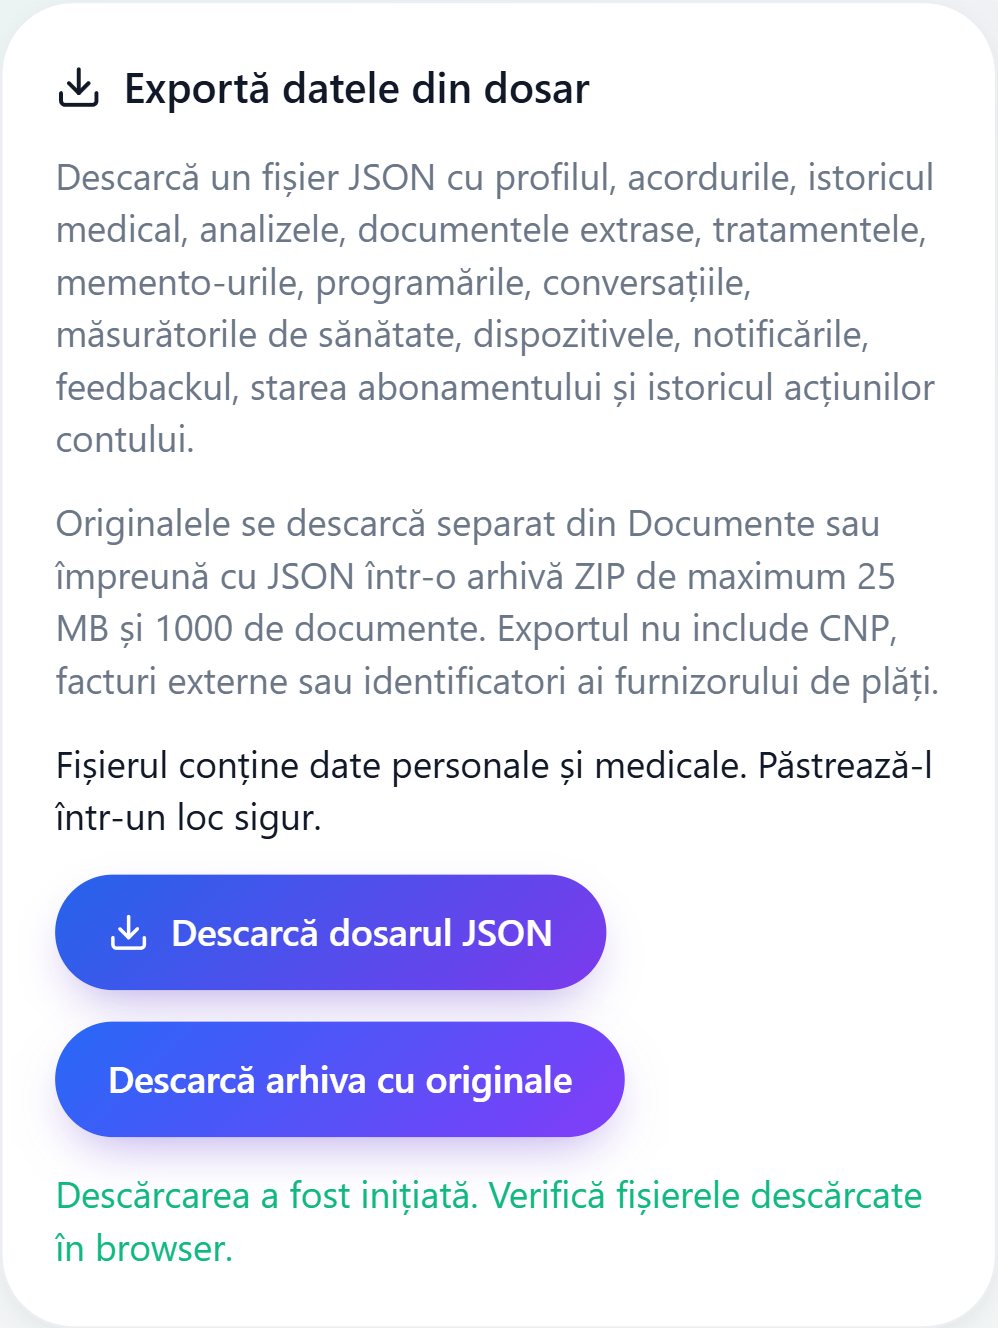
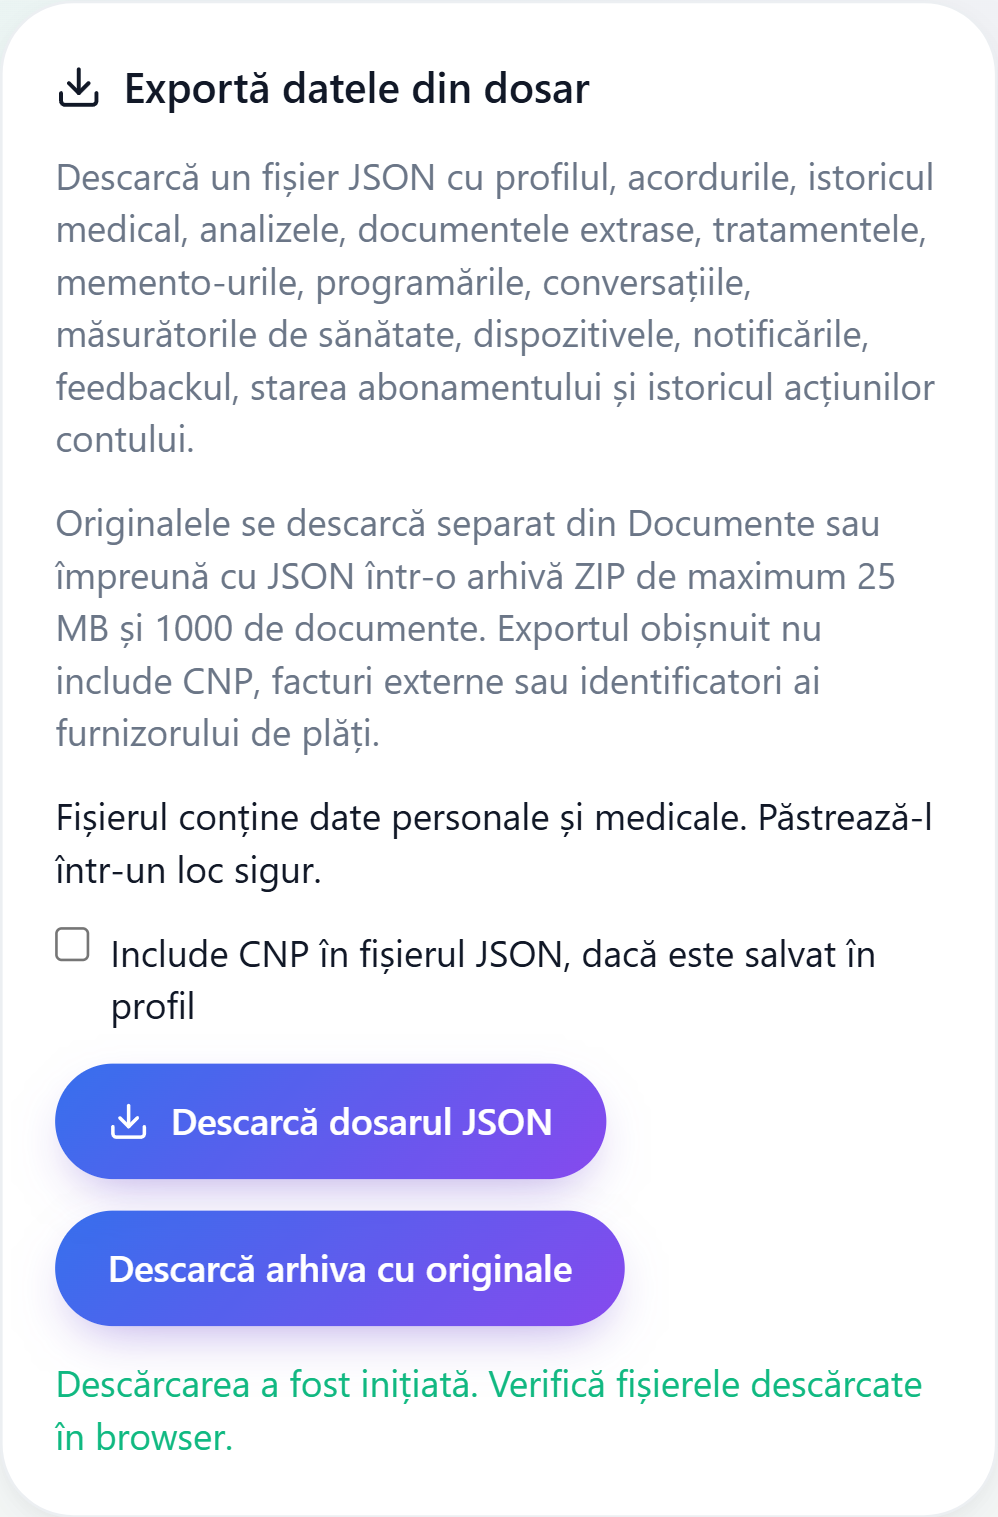
feat: opt in to identifier export with password and MFA reauthentication

Changed region(s): [[0.0311, 0.0309, 0.9319, 0.9571]]

diff --git a/frontend/src/components/data-export.tsx b/frontend/src/components/data-export.tsx
@@ -4,10 +4,15 @@ import { useEffect, useState } from "react";
 import { Capacitor } from "@capacitor/core";
 import { Download } from "lucide-react";
 import { saveExport } from "@/lib/file-export";
-import { downloadFile } from "@/lib/api";
-import { Button, Card } from "@/components/ui";
+import { useAuth } from "@/lib/auth";
+import { api, downloadFile } from "@/lib/api";
+import { Button, Card, Input } from "@/components/ui";
 
 export function DataExport() {
+  const { user } = useAuth();
+  const [includeCnp, setIncludeCnp] = useState(false);
+  const [password, setPassword] = useState("");
+  const [mfaCode, setMfaCode] = useState("");
   const [busy, setBusy] = useState(false);
   const [native, setNative] = useState(false);
   const [message, setMessage] = useState("");
@@ -18,7 +23,12 @@ export function DataExport() {
     if (busy) return;
     setBusy(true); setMessage(""); setError("");
     try {
-      const blob = await downloadFile(archive ? "/gdpr/export/archive" : "/gdpr/export");
+      const blob = includeCnp && !archive
+        ? new Blob([JSON.stringify(await api.post("/gdpr/export/with-identifier", {
+            password, mfa_code: mfaCode || null, include_cnp: true,
+          }), null, 2)], {type: "application/json"})
+        : await downloadFile(archive ? "/gdpr/export/archive" : "/gdpr/export");
+      setPassword(""); setMfaCode("");
       setMessage(await saveExport(blob, `dosar-medical-${new Date().toISOString().slice(0, 10)}.${archive ? "zip" : "json"}`));
     } catch (e) {
       setError(e instanceof Error ? e.message : "Exportul nu a putut fi descărcat. Reîncearcă.");
@@ -31,15 +41,22 @@ export function DataExport() {
     </h2>
     <p className="text-sm text-muted">Descarcă un fișier JSON cu profilul, acordurile, istoricul medical,
       analizele, documentele extrase, tratamentele, memento-urile, programările, conversațiile, măsurătorile de sănătate, dispozitivele, notificările, feedbackul, starea abonamentului și istoricul acțiunilor contului.</p>
-    <p className="text-sm text-muted">Originalele se descarcă separat din Documente sau împreună cu JSON într-o arhivă ZIP de maximum 25 MB și 1000 de documente. Exportul nu include
+    <p className="text-sm text-muted">Originalele se descarcă separat din Documente sau împreună cu JSON într-o arhivă ZIP de maximum 25 MB și 1000 de documente. Exportul obișnuit nu include
       CNP, facturi externe sau identificatori ai furnizorului de plăți.</p>
     <p className="text-sm">Fișierul conține date personale și medicale. Păstrează-l într-un loc sigur.</p>
     {native && <p className="text-sm text-muted">Alege destinația în dialogul sistemului. Copia temporară
       rămâne în memoria cache privată; copiile mai vechi de 24 de ore se curăță la următorul export.</p>}
-    <Button onClick={() => download()} disabled={busy}>
+    <label className="flex items-start gap-2 text-sm"><input type="checkbox" disabled={busy} checked={includeCnp}
+      onChange={e => {setIncludeCnp(e.target.checked); setPassword(""); setMfaCode("");}} />Include CNP în fișierul JSON, dacă este salvat în profil</label>
+    {includeCnp && <div className="space-y-3">
+      <p className="text-sm text-muted">Confirmă identitatea pentru acest export. Arhiva ZIP rămâne fără CNP.</p>
+      <label className="block text-sm">Parola pentru export<Input type="password" autoComplete="current-password" value={password} onChange={e => setPassword(e.target.value)} disabled={busy} /></label>
+      {user?.mfa_enabled && <label className="block text-sm">Cod MFA pentru export<Input autoComplete="one-time-code" maxLength={64} value={mfaCode} onChange={e => setMfaCode(e.target.value)} disabled={busy} /></label>}
+    </div>}
+    <Button onClick={() => download()} disabled={busy || (includeCnp && (!password || (!!user?.mfa_enabled && !mfaCode)))}>
       <Download size={16} aria-hidden="true" /> {busy ? "Se pregătește exportul…" : native ? "Salvează sau partajează JSON" : "Descarcă dosarul JSON"}
     </Button>
-    <Button onClick={() => download(true)} disabled={busy}>Descarcă arhiva cu originale</Button>
+    <Button onClick={() => download(true)} disabled={busy || includeCnp}>Descarcă arhiva cu originale</Button>
     {message && <p role="status" className="text-sm text-brand-green">{message}</p>}
     {error && <p role="alert" className="text-sm text-red-600">{error}</p>}
   </Card>;

diff --git a/frontend/tests/data-export-flow.spec.ts b/frontend/tests/data-export-flow.spec.ts
@@ -38,6 +38,20 @@ test("download owned JSON export and retry after service error", async ({ page }
   expect(archiveBytes.subarray(0, 2).toString()).toBe("PK");
   expect(archiveBytes.includes(Buffer.from("dosar.json"))).toBe(true);
   expect(archiveBytes.includes(Buffer.from(email))).toBe(true);
+  await section.getByRole("checkbox").check();
+  await expect(section.getByRole("button", {name: "Descarcă arhiva cu originale"})).toBeDisabled();
+  await section.getByLabel("Parola pentru export").fill("wrong-password");
+  await button.click();
+  await expect(section.getByRole("alert")).toContainText("Parolă sau cod MFA incorect");
+  await section.getByLabel("Parola pentru export").fill("Testing-pass-123!");
+  const sensitiveDownload = page.waitForEvent("download");
+  await button.click();
+  const sensitiveFile = await sensitiveDownload;
+  const sensitive = JSON.parse(await readFile((await sensitiveFile.path())!, "utf8"));
+  expect(sensitive.export_metadata.cnp_requested).toBe(true);
+  expect(sensitive.export_metadata.not_included).not.toContain("cnp");
+  await expect(section.getByLabel("Parola pentru export")).toHaveValue("");
+  await section.getByRole("checkbox").uncheck();
   await section.scrollIntoViewIfNeeded();
   expect(await page.evaluate(() => document.documentElement.scrollWidth <= innerWidth)).toBe(true);
   await section.screenshot({ path: `../docs/screenshots/data-export-${info.project.name}.png` });

diff --git a/backend/app/api/routes/gdpr.py b/backend/app/api/routes/gdpr.py
@@ -1,6 +1,7 @@
 """GDPR endpoints: data export, account deletion, consent management."""
 from __future__ import annotations
 
+import pyotp
 from fastapi import APIRouter, Depends, HTTPException, Request, Response, status
 from fastapi.responses import JSONResponse
 from sqlalchemy import select
@@ -10,11 +11,12 @@ from app.api.deps import ai_consent_version, get_current_user
 from app.core.browser_session import clear_browser_cookies
 from app.core.database import get_db
 from app.core.rate_limit import RateLimiter
-from app.core.security import verify_password
+from app.core.security import decrypt_field, verify_password
 from app.models.enums import ConsentType
+from app.models.patient import Patient
 from app.models.user import Consent, User
-from app.schemas.gdpr import ConsentIn, ConsentOut, DeleteAccountRequest
-from app.services import audit, gdpr, record_archive, storage_cleanup
+from app.schemas.gdpr import ConsentIn, ConsentOut, DeleteAccountRequest, SensitiveExportRequest
+from app.services import audit, gdpr, mfa_recovery, record_archive, storage_cleanup
 from app.services.ai import get_ai_provider
 from app.services.ai.base import AIProvider
 from app.services.storage import Storage, get_storage
@@ -38,6 +40,44 @@ def export_my_data(
     response.headers["Pragma"] = "no-cache"
     audit.record(db, user_id=user.id, action="gdpr_export", ip_address=_client_ip(request))
     return gdpr.export_user_data(db, user)
+
+
+@router.post("/export/with-identifier", dependencies=[Depends(RateLimiter(5, 60))])
+def export_with_identifier(
+    payload: SensitiveExportRequest, user: User = Depends(get_current_user),
+    db: Session = Depends(get_db),
+) -> dict:
+    if not payload.include_cnp:
+        raise HTTPException(400, "Confirmă includerea CNP în export.")
+    version = user.token_version
+    account = db.scalar(select(User).where(User.id == user.id).with_for_update()
+                        .execution_options(populate_existing=True))
+    if account is None or not account.is_active or account.token_version != version:
+        raise HTTPException(401, "Sesiune expirată.")
+    if not account.hashed_password or not verify_password(
+        payload.password, account.hashed_password
+    ):
+        raise HTTPException(400, "Parolă sau cod MFA incorect.")
+    if account.mfa_enabled:
+        secret = decrypt_field(account.mfa_secret)
+        if not payload.mfa_code or not secret:
+            raise HTTPException(400, "Parolă sau cod MFA incorect.")
+        if not pyotp.TOTP(secret).verify(payload.mfa_code, valid_window=1):
+            if not mfa_recovery.consume(db, account.id, payload.mfa_code):
+                db.rollback()
+                raise HTTPException(400, "Parolă sau cod MFA incorect.")
+    patient = db.scalar(select(Patient).where(Patient.user_id == account.id))
+    identifier = decrypt_field(patient.cnp_encrypted) if patient else None
+    if patient and patient.cnp_encrypted and identifier is None:
+        db.rollback()
+        raise HTTPException(503, "Identificatorul nu a putut fi exportat. Reîncearcă.")
+    data = gdpr.export_user_data(db, account)
+    data["export_metadata"]["not_included"].remove("cnp")
+    data["export_metadata"]["cnp_requested"] = True
+    if data["patient"] is not None:
+        data["patient"]["cnp"] = identifier
+    audit.record(db, user_id=account.id, action="gdpr_export_with_identifier")
+    return data
 
 
 @router.get("/export/archive", dependencies=[Depends(RateLimiter(2, 60))])

diff --git a/backend/tests/test_sensitive_export.py b/backend/tests/test_sensitive_export.py
@@ -1,0 +1,45 @@
+import pyotp
+from sqlalchemy import select
+
+from app.models.user import AuditLog
+from tests.test_gdpr import API, _auth
+
+
+def test_identifier_export_is_opt_in_reauthenticated_and_owner_scoped(client, db_session):
+    owner = _auth(client, "identifier-owner@example.com")
+    other = _auth(client, "identifier-other@example.com")
+    client.put(f"{API}/patients/me", headers=owner, json={"cnp": "0000000000000"})
+    client.put(f"{API}/patients/me", headers=other, json={"cnp": "1111111111111"})
+    assert "0000000000000" not in client.get(f"{API}/gdpr/export", headers=owner).text
+    for payload in [{"password": "Parola1234"}, {"password": "wrong", "include_cnp": True}]:
+        assert client.post(f"{API}/gdpr/export/with-identifier", headers=owner,
+                           json=payload).status_code == 400
+    response = client.post(f"{API}/gdpr/export/with-identifier", headers=owner,
+                           json={"password": "Parola1234", "include_cnp": True})
+    assert response.status_code == 200
+    assert response.json()["patient"]["cnp"] == "0000000000000"
+    assert "1111111111111" not in response.text
+    assert "cnp" not in response.json()["export_metadata"]["not_included"]
+    assert response.headers["cache-control"] == "no-store"
+    logs = list(db_session.scalars(select(AuditLog).where(
+        AuditLog.action == "gdpr_export_with_identifier")))
+    assert len(logs) == 1 and logs[0].detail is None
+
+
+def test_identifier_export_enforces_mfa_and_consumes_backup_once(client):
+    headers = _auth(client, "identifier-mfa@example.com")
+    client.put(f"{API}/patients/me", headers=headers, json={"cnp": "0000000000000"})
+    secret = client.post(f"{API}/auth/mfa/setup", headers=headers).json()["secret"]
+    codes = client.post(f"{API}/auth/mfa/activate", headers=headers,
+                        json={"code": pyotp.TOTP(secret).now()}).json()["recovery_codes"]
+    token = client.post(f"{API}/auth/login", json={"email": "identifier-mfa@example.com",
+        "password": "Parola1234", "mfa_code": pyotp.TOTP(secret).now()}).json()["access_token"]
+    headers = {"Authorization": f"Bearer {token}"}
+    payload = {"password": "Parola1234", "include_cnp": True}
+    assert client.post(f"{API}/gdpr/export/with-identifier", headers=headers,
+                       json=payload).status_code == 400
+    payload["mfa_code"] = codes[0]
+    assert client.post(f"{API}/gdpr/export/with-identifier", headers=headers,
+                       json=payload).status_code == 200
+    assert client.post(f"{API}/gdpr/export/with-identifier", headers=headers,
+                       json=payload).status_code == 400

diff --git a/backend/app/schemas/gdpr.py b/backend/app/schemas/gdpr.py
@@ -3,7 +3,7 @@ from __future__ import annotations
 
 from datetime import datetime
 
-from pydantic import BaseModel, ConfigDict
+from pydantic import BaseModel, ConfigDict, Field
 
 from app.models.enums import ConsentType
 
@@ -26,3 +26,9 @@ class ConsentOut(BaseModel):
     granted: bool
     version: str
     created_at: datetime
+
+
+class SensitiveExportRequest(BaseModel):
+    password: str = Field(min_length=1, max_length=128)
+    mfa_code: str | None = Field(default=None, max_length=64)
+    include_cnp: bool = False

diff --git a/docs/LOCAL-TEST.md b/docs/LOCAL-TEST.md
@@ -186,7 +186,7 @@ Fișierele temporare locale noi au un nume determinist derivat din cheia unică,
 
 ### Export JSON al dosarului — schema 2
 Exportul autentificat păstrează cheile existente și adaugă identificatori, datele creării/modificării, contacte de urgență, furnizorul vaccinului, legături ale istoricului, rezultate textuale și nivelul de verificare al analizelor, textul extras și metadatele documentului, perioade/note/instrucțiuni ale medicației și detalii ale programărilor. Orele sunt exportate cu fus orar; datele calendaristice rămân date. Metadatele JSON vechi nevalide sunt păstrate ca `unparsed_text`, fără să blocheze restul exportului.
-`export_metadata` declară explicit acoperirea. Originalele nu sunt încorporate în JSON; fiecare document oferă o cale de descărcare care necesită autentificarea proprietarului. CNP și facturarea nu sunt încă incluse. Istoricul acțiunilor proprii este inclus în `audit_events`, cu dată, resursă, IP și user-agent; textul liber intern `detail` este exclus explicit din export. Evenimentele altor conturi sau fără proprietar nu sunt incluse. Măsurătorile de sănătate, dispozitivele raportate, notificările și feedbackul propriu sunt incluse. Tokenurile push și marcajele interne de livrare nu sunt exportate. Secretele de autentificare și cheile interne de stocare nu se exportă. Răspunsul are `Cache-Control: no-store`; fișierul descărcat rămâne în responsabilitatea utilizatorului. Acest increment nu reprezintă un pachet integral de portabilitate și nu certifică conformitatea juridică GDPR.
+`export_metadata` declară explicit acoperirea. Originalele nu sunt încorporate în JSON; fiecare document oferă o cale de descărcare care necesită autentificarea proprietarului. Exportul JSON obișnuit omite CNP; opțiunea din Setări îl include numai după reconfirmarea parolei și a celui de-al doilea factor când MFA este activ. Facturile externe nu sunt incluse. Istoricul acțiunilor proprii este inclus în `audit_events`, cu dată, resursă, IP și user-agent; textul liber intern `detail` este exclus explicit din export. Evenimentele altor conturi sau fără proprietar nu sunt incluse. Măsurătorile de sănătate, dispozitivele raportate, notificările și feedbackul propriu sunt incluse. Tokenurile push și marcajele interne de livrare nu sunt exportate. Secretele de autentificare și cheile interne de stocare nu se exportă. Răspunsul are `Cache-Control: no-store`; fișierul descărcat rămâne în responsabilitatea utilizatorului. Acest increment nu reprezintă un pachet integral de portabilitate și nu certifică conformitatea juridică GDPR.
 
 
 Exportul JSON se descarcă din **Setări → Exportă datele din dosar → Descarcă dosarul JSON**. Butonul folosește sesiunea autentificată și mecanismul de reînnoire existent, afișează erori cu posibilitate de reîncercare și precizează că inițierea descărcării nu confirmă salvarea pe disc. Numele fișierului conține doar data, fără numele pacientului. Testele de browser verifică efectiv JSON-ul descărcat și identitatea contului pe cele trei dimensiuni de ecran. În buildurile native, exportul JSON folosește acum dialogul sistemului prin adaptorul Capacitor; validarea pe dispozitive fizice rămâne necesară. Browserul mobil și PWA folosesc descărcarea web.

diff --git a/docs/LAUNCH-READINESS.md b/docs/LAUNCH-READINESS.md
@@ -59,7 +59,7 @@ Push-ul simulat nu marchează livrare reală. Acceptarea de FCM/APNs nu dovedeș
 1. Configurare și verificare externă PostgreSQL de producție, S3, SMTP, OCR real, furnizor AI, FCM/APNs; cheile rămân în variabile de mediu. Emailurile locale și simularea nu înlocuiesc aceste servicii.
 2. Evaluare medicală independentă a surselor, citărilor, regulilor de alarmă și rezultatelor AI; acoperirea actuală este limitată.
 3. Testare fizică Android/iOS: sesiuni, descărcare/partajare, push, PWA, accesibilitate și integrarea datelor de sănătate. iOS necesită macOS/Xcode, manifest de confidențialitate integrat și semnare.
-4. Exportul nu este încă un pachet integral: lipsesc CNP și facturile externe. Arhiva ZIP cu JSON și originale este disponibilă până la 25 MB și 1000 documente; exporturile mai mari necesită descărcări separate. Starea abonamentului local este inclusă; identificatorii furnizorului sunt excluși deoarece pot reprezenta tokenuri de cumpărare. Detaliile interne libere de audit și secretele de autentificare sunt excluse explicit. Exportul nu este o certificare GDPR.
+4. Exportul nu este încă un pachet integral: facturile externe nu sunt incluse. CNP-ul poate fi inclus opțional în JSON prin reconfirmarea parolei și a celui de-al doilea factor când MFA este activ; ZIP rămâne fără CNP. Arhiva ZIP cu JSON și originale este disponibilă până la 25 MB și 1000 documente; exporturile mai mari necesită descărcări separate. Starea abonamentului local este inclusă; identificatorii furnizorului sunt excluși deoarece pot reprezenta tokenuri de cumpărare. Detaliile interne libere de audit și secretele de autentificare sunt excluse explicit. Exportul nu este o certificare GDPR.
 5. Politici externe de retenție, backup, S3 versioning/Object Lock, restaurare și ștergere verificată. Intenția de curățare nu constituie atomicitate distribuită cu S3; scrierile externe foarte întârziate necesită reconciliere.
 6. Recurențe de medicație mai complexe decât ore zilnice și evidența administrării; niciun orar nu se deduce automat din doză. Canalele de notificare email/SMS nu sunt implementate complet.
 7. Verificarea documentelor contractuale și a politicilor de confidențialitate, limitelor operaționale și monitorizării înainte de date reale.
@@ -71,3 +71,5 @@ Push-ul simulat nu marchează livrare reală. Acceptarea de FCM/APNs nu dovedeș
 - Migrațiile Alembic și verificarea PostgreSQL rulează în CI. Pentru publicare, se verifică rezultatele **reviziei exacte** din PR; rezultatele unui commit anterior nu certifică următorul.
 
 În acest increment nu au fost schimbate servicii Render, activate servicii plătite, folosite date medicale reale sau efectuat merge în ramura de lansare.
+
+Export identificator: POST /gdpr/export/with-identifier cere include_cnp explicit, parola și MFA/TOTP sau cod de rezervă valid dacă MFA este activ. Codul de rezervă se consumă atomic; auditul nu conține identificatorul sau parolele. Dacă decriptarea eșuează, exportul este refuzat. 11 teste export/GDPR și 3 scenarii browser trecute, plus Ruff și build/TypeScript.
